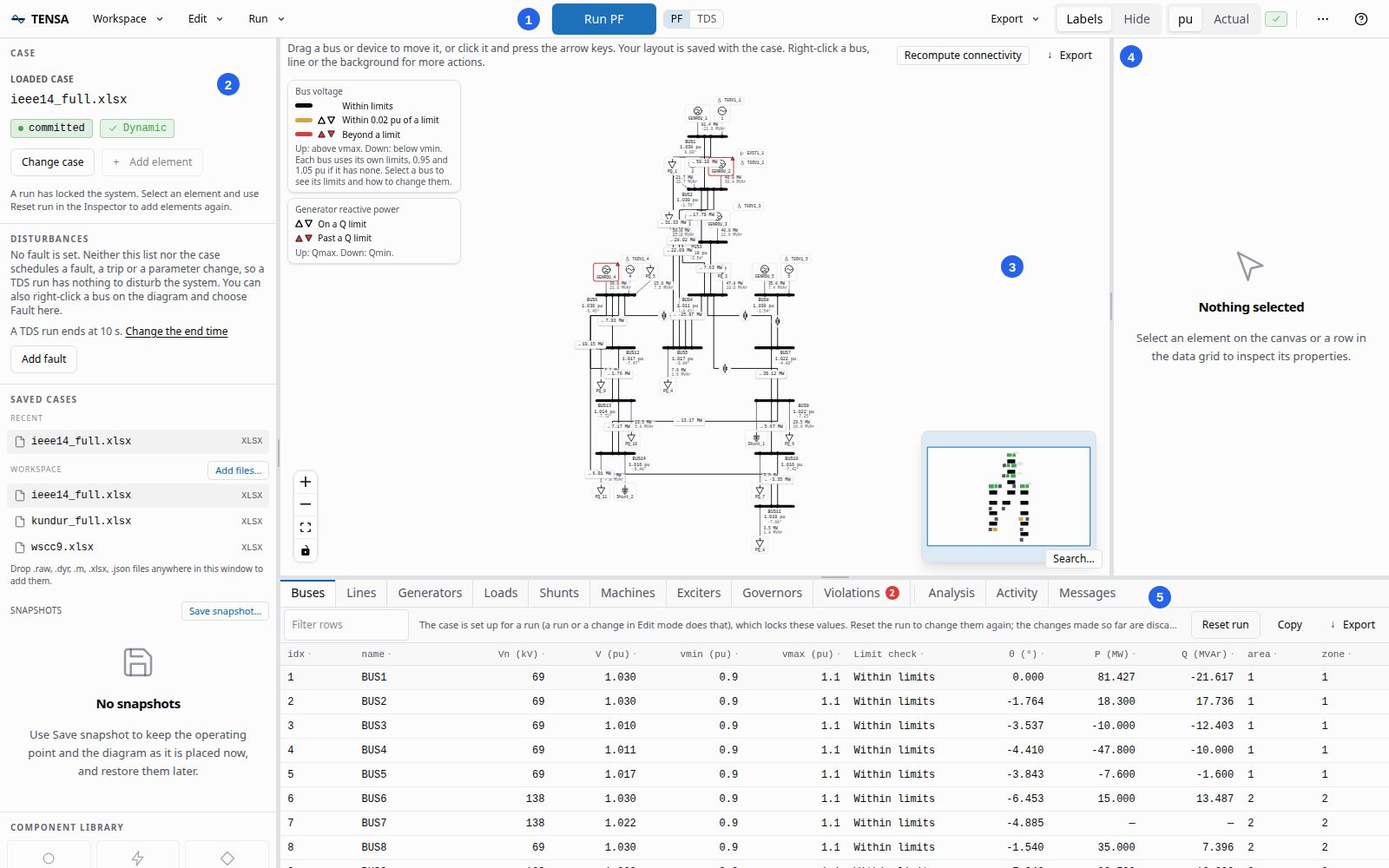
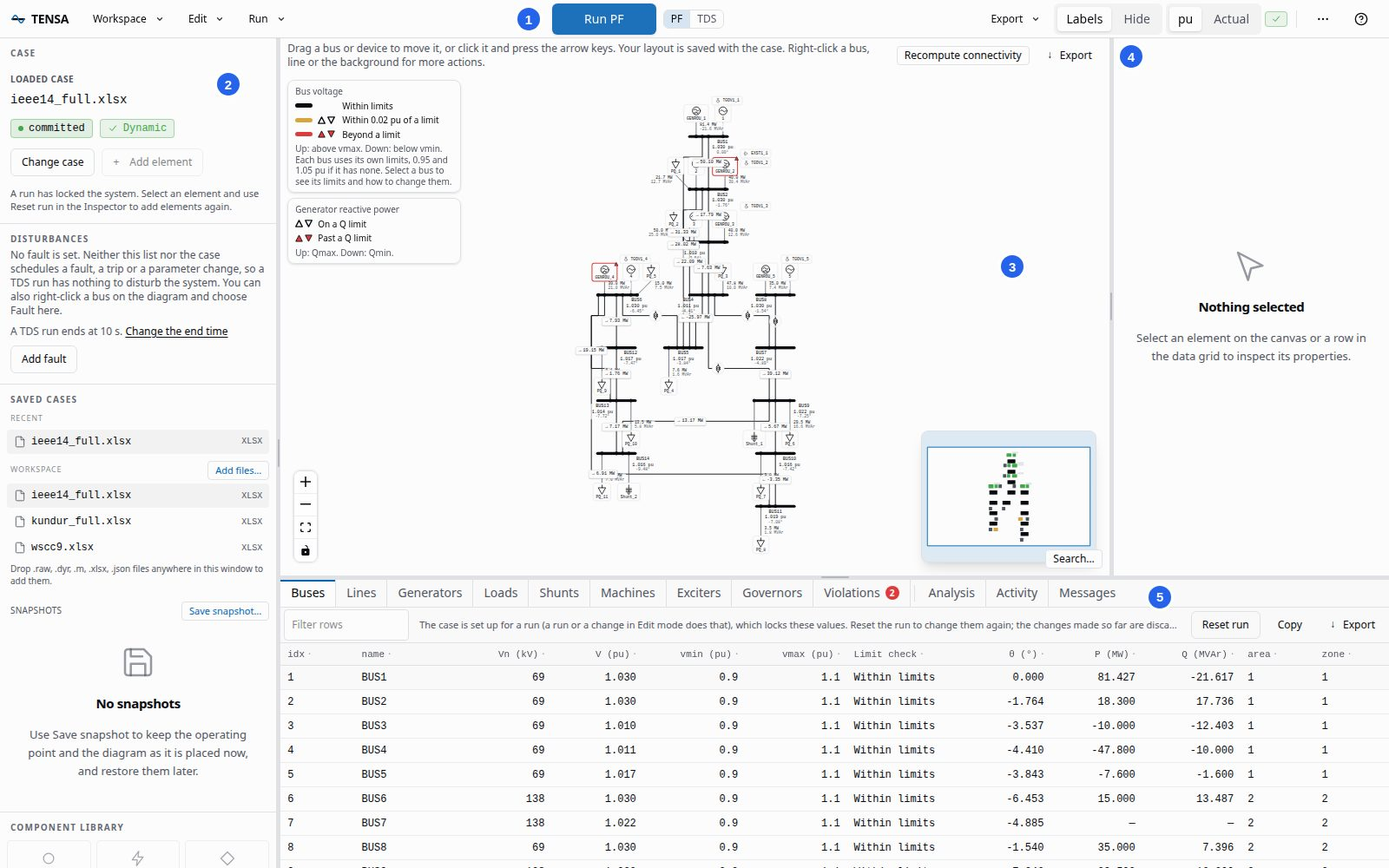
docs: say how the taps of a bar share it and how a connector goes round other symbols
The changelog, the UI tour and AGENTS.md said that the two faces of a bar
do not compete for taps and that the branches of one port are spread a
spacing apart. They now give the rules as they are: a tap above the bar
and one below it share a dot or keep the spacing, a device over the bar
keeps its square drop, the branches of one port are parted in the order
that keeps them from crossing, a connector does not run through another
symbol, and the readout of a device stands clear of its connector and of
the label of its bus.

The overview screenshot of the UI tour is retaken with
web/scripts/docs-screenshots.mjs, since the diagram in it is drawn by
these rules.

Changed region(s): [[0.4062, 0.124, 0.5938, 0.62]]

diff --git a/CHANGELOG.md b/CHANGELOG.md
@@ -79,9 +79,9 @@ All notable changes to TENSA are documented here. The format follows [Keep a Cha
 - `tensa desktop` opens the app in a window of its own instead of a browser tab. It starts the server on a free loopback port, shows the UI in a native window, and stops the server, the sessions and their workers when the window is closed. The window is pywebview's, from the new optional `desktop` extra (`pip install "tensa[desktop]"`; on Linux it also needs a GUI toolkit, which `pip install "tensa[desktop]" "pywebview[qt]"` adds, and the command says so when no window can be opened). It takes `--workspace`, the session, sweep and logging options of `tensa serve`, and `--width`, `--height` and `--devtools`; it has no `--bind` or `--port`, so the server is only ever on loopback. It calls `multiprocessing.freeze_support()` first, as a bundled executable needs. There is no installer or signed application yet: the server README outlines a PyInstaller build as future work.
 - `tensa desktop` checks, before it makes the workspace or starts the server, that a window can open, and when one cannot it prints one message and exits with status 1, having created nothing. The message says what is missing, gives the command that installs it, and ends with the way that needs none of it: `tensa serve --open` shows the same UI in a browser. Without pywebview the command is `pip install "tensa[desktop]"`, with `"pywebview[qt]"` added on Linux, where pywebview brings no GUI toolkit; it names the `desktop` extra only when the installed tensa has one (an older install has none, and pip only warns about an extra it does not know), and pywebview itself otherwise. `--help` gives the same two commands, in double quotes, which `cmd.exe` needs. On Linux the command stops when the session has no display (over SSH, say, where it points to `tensa serve`), when neither Qt nor GTK can be imported, and when the toolkit is installed and does not start. It finds the last out by starting the toolkit in a short-lived child process, because Qt does not raise when a system library is missing: it aborts the program with status 134 and a line about its `xcb` platform plugin, after the server had started. The usual cause is `libxcb-cursor0` on X11, and the message then gives the package for Debian and Ubuntu, Fedora and Arch; for anything else it quotes what the toolkit said. With two toolkits installed the window uses the one that starts, asked for by name so that pywebview does not try the other first. The server README lists what each system needs besides pip.
 - A saved system keeps the placement of everything on its diagram. The layout file beside a case (`<case>.layout.json`) held the position of each bus, generator, load and shunt, and only after something had been dragged. It now holds the whole diagram as it is drawn, whatever placed it: the layout shipped for the case, the automatic one, or your own drags. The lines are part of it: the automatic layout routes each one through fixed points, those points are saved, and a diagram saved from the automatic layout reopens with the same lines and not only the same buses. The schema is version 2 and also has a place for a controller placed on its own (`controller_coordinates`), for whether a generating unit is drawn expanded (`units`), the length and orientation of a busbar (`busbars`), the route of a branch and the bus faces it uses (`branches`), a label that was moved (`label_offsets`), the faces a device's connector attaches on (`connections`) and the display settings of a figure (`figure`). The diagram draws from the positions, the placed controllers and the routes, and carries the other sections through every write unchanged, minus what described an element the case no longer has. A version 1 file still opens: the server and the UI both upgrade it, and `GET /workspace/layout` always answers with version 2.
-- Every connector of the single-line diagram attaches at a definite place. A generator, load or shunt had one fixed handle (a generator's at its foot, a load's at its head, a shunt's at its right side), and its connector, a dashed line, ran from there to a point beside the bus wherever the device was put, so a device moved to the side of its bus was connected from its far side. A line or transformer the automatic layout had routed stopped where that layout's box for the bus ends, 34 units under the bar for one arriving from below. Now each device has a port at the middle of each of its four faces, and the connector leaves by the one that points at the bus. It lands on a tap of the bus's bar: the foot of the perpendicular from the device when that falls on the bar, the tip of the bar otherwise, and the bar's end itself for a device that sits level with it. Every tap is marked with a dot on the bar. The taps of one face of a bar keep 14 units between them, and a bar that has more taps than it has room for grows about its middle until they fit; a face above the bar and one below it do not compete, so a generator over a load may share a tap. The connector is a solid line with the stroke of a branch. All of it is worked out again on every move of a drag, so the face, the tap and the dot follow the pointer, and a bus that is dragged takes its branches with it at once.
-- A line or transformer lands on the bars as well. It is drawn at right angles from a tap to a tap: straight down between two bars that stand over each other, stepping across half way when they do not, and end to end between two buses that stand in a row. A branch the automatic layout routed, or a saved layout holds a route for, keeps its bends, and its two ends are brought onto the bars. Where a branch could run straight down from one bar to the next but for its two taps being out of line (the automatic layout runs every branch of one side of a bus through one point, and they are then spread a spacing apart), the tap that is free to move is brought in line with the other, so the branch stays straight and does not step sideways on its way. A second branch does not leave the end of a bar another one already has: it goes by the faces, or bridges over the two bars when they are exactly level. Where a branch steps across at the height of a third bar that stands between its two buses, the run across keeps clear of that bar, which it would otherwise seem to be part of.
-- Device connectors can turn at a right angle. The right-click menu of the diagram's background has Device connectors with Straight and Right angle, and the command palette has both. With Right angle a connector whose device does not stand square over its tap runs sideways out of the device and then square onto the bar. A device that stands over its tap is connected by a straight line either way. The choice is kept with the layout (the `connector_style` figure setting, `straight` or `elbow`), so it is saved beside the case and goes with a save under a new name, a snapshot and a bundle, and Reset to auto-layout leaves it alone.
+- Every connector of the single-line diagram attaches at a definite place. A generator, load or shunt had one fixed handle (a generator's at its foot, a load's at its head, a shunt's at its right side), and its connector, a dashed line, ran from there to a point beside the bus wherever the device was put, so a device moved to the side of its bus was connected from its far side. A line or transformer the automatic layout had routed stopped where that layout's box for the bus ends, 34 units under the bar for one arriving from below. Now each device has a port at the middle of each of its four faces, and the connector leaves by the one that points at the bus. It lands on a tap of the bus's bar: the foot of the perpendicular from the device when that falls on the bar, the tip of the bar otherwise, and the bar's end itself for a device that sits level with it. A device whose box still stands over a tip of the bar drops square as well, onto a bar that reaches out under its middle. Every tap is marked with a dot on the bar. The taps of a bar keep 14 units between them, on one face and across the two: a tap above the bar and one below it are either in one place, where they share a dot (a generator over a load, a line that comes down onto the bar and one that leaves under it), or 14 units apart, so no two dots run into each other. Where two connections ask for places closer than that, one gives way: the end of a line moves aside for a device that stands over the bar, which keeps its square drop, and a device for the end of a line that runs straight on to the next bar. A bar that has more taps than it has room for grows about its middle until they fit, and a bar grows at a tip to hold a tap that was moved past it. A connector does not run through another device or a controller badge where there is a way round: it then leaves by the face that looks at the bar. The connector is a solid line with the stroke of a branch. All of it is worked out again on every move of a drag, so the face, the tap and the dot follow the pointer, and a bus that is dragged takes its branches with it at once.
+- A line or transformer lands on the bars as well. It is drawn at right angles from a tap to a tap: straight down between two bars that stand over each other, stepping across half way when they do not, and end to end between two buses that stand in a row. A branch the automatic layout routed, or a saved layout holds a route for, keeps its bends, and its two ends are brought onto the bars. The automatic layout runs every branch of one side of a bus through one point. On the bar they are parted a spacing apart, in the order that keeps them from crossing: the ones that turn left on the left, the ones that turn right on the right, and between them the one that runs straight on to the next bar, which keeps the place the layout gave it at both ends. Where a branch could still run straight down from one bar to the next but for its two taps being out of line, the tap that is free to move is brought in line with the other, so the branch stays straight and does not step sideways on its way. A second branch does not leave the end of a bar another one already has: it goes by the faces, or bridges over the two bars when they are exactly level. Where a branch steps across at the height of a third bar that stands between its two buses, the run across keeps clear of that bar, which it would otherwise seem to be part of.
+- Device connectors can turn at a right angle. The right-click menu of the diagram's background has Device connectors with Straight and Right angle, and the command palette has both. With Right angle a connector whose device does not stand square over its tap runs sideways out of the device and then square onto the bar. Where another device stands in the way of that run, as in a row of devices that is longer than their bar, it goes down from the device to the level of the bar and along into its tip. A device that stands over its tap is connected by a straight line either way. The choice is kept with the layout (the `connector_style` figure setting, `straight` or `elbow`), so it is saved beside the case and goes with a save under a new name, a snapshot and a bundle, and Reset to auto-layout leaves it alone.
 - A bar can be given a length. `busbars.<bus>.length` in the layout was stored and not read; the diagram now draws the bar that long, and longer when its taps need it.
 - A position in the layout says what it belongs to. Entries are keyed by ANDES idx, and an idx does not always keep its meaning: a PSS/E `.raw` file holds none, so a system saved as one comes back with its devices and lines numbered afresh, and an element that is deleted can give its idx to the next one added. Each device position now records the bus the device hangs off (`bus`) and each route the two buses it runs between (`bus1`, `bus2`). An entry is used only for an element on those buses, so nothing is drawn where another element used to be, and an entry whose idx no longer fits is matched to the element that is on its buses now. A system saved as `.raw` therefore reopens with its generators, loads and lines where they were placed. The layout written beside a `.raw` copy leaves out what has nothing to be matched by. That is a `.raw` file Save system as wrote; Save parameter edits as case copies the case's own files, which read back numbered as the open case is, so the copy of a `.raw` case keeps the whole layout.
 - The layout goes where the system goes, on every way of saving it. Save and Save system as write the diagram as drawn beside the file they write. A snapshot keeps it (`layout` on `POST /sessions/{id}/snapshot`), and restoring the snapshot writes it back beside the case and returns it, so the diagram is placed as it was when the snapshot was saved. When that changes what is on screen the UI says so and offers Keep my layout, which brings back the arrangement the diagram had before the restore and leaves the restored operating point alone. A reproducibility bundle carries it as `layout.json` (`layout` on `POST /sessions/{id}/bundle/export`, and the export dialog lists it), and importing the bundle writes it beside the imported case (`layout_restored` in the answer). A `layout.json` that is not a valid layout, or holds one over the layout's size cap, is left out with a warning and the import goes ahead; when a conflict is resolved by keeping the workspace's own case file, its layout is kept with it. Resolved the other way by a bundle that brings no layout, the layout beside the replaced file is removed, with a warning that says so: it was made for the system that file held. A request that sends no `layout`, as a script does, gets the layout saved beside the case file, and `POST /sessions/{id}/save` and `POST /sessions/{id}/case/clone/save-as` copy that layout to the new name themselves.
@@ -90,10 +90,10 @@ All notable changes to TENSA are documented here. The format follows [Keep a Cha
 - The diagram says when it is locked. The padlock button of the diagram's controls turns dragging and selecting off, and the icon was the only sign of it, so a diagram locked by a stray click refused every drag with nothing to show why. The bar above the diagram now says that it is locked and which button unlocks it, the button is named for what the next press does (`Lock the diagram`, `Unlock the diagram`), and Move with arrow keys is greyed out with the reason while the lock is on.
 
 ### Changed
-- A device the layout does not place is put over a free part of its bar. It used to go a fixed offset from the corner of the bus node, which put a narrow one on the middle of the bar, where a single branch lands, and a wide one over the bar's left tip, and a generator and a load on the same side of a bus were stacked on one spot and pushed apart afterwards. Each now stands over the left or the right third of its bar (by the row the bus is in, as before), 8 units clear of a branch that lands on that side and of the device beside it, so its connector drops square onto the bar, and past the tip of the bar only when the bar is full. A shunt hangs under the bar like a load; it used to sit below and to the left of it. A position the layout holds, or a drag made, is kept as it is.
+- A device the layout does not place is put over a free part of its bar. It used to go a fixed offset from the corner of the bus node, which put a narrow one on the middle of the bar, where a single branch lands, and a wide one over the bar's left tip, and a generator and a load on the same side of a bus were stacked on one spot and pushed apart afterwards. Each now stands over the left or the right third of its bar (by the row the bus is in, as before), 8 units clear of a branch that lands on that side and of the device beside it, so its connector drops square onto the bar, and past the tip of the bar only when the bar is full. Where the other face of the bar has connections too, it stands in line with one of them or 14 units clear of them all. A shunt hangs under the bar like a load; it used to sit below and to the left of it. A position the layout holds, or a drag made, is kept as it is.
 - The automatic layout gives each bus a box as wide as its bar. The box was 60 wide for a bar of 92, so two buses of one layer could be placed with their bars touching, and a route could run through the end of a bar. A branch between two buses of different layers now leaves by the faces of the bars and not by their ends, which the layout chose whenever the buses were further apart across than down. A case with no saved layout and none shipped with the app is therefore drawn a little wider than before; a saved layout is drawn as it was saved.
 - The label of a bus moves along under its bar to stay clear of a connector that comes up through the middle, since lines now reach the bar.
-- The power and reactive power of a generator or load are shown beside its connector when the connector leaves by the face they hang off, and no longer on top of it.
+- The power and reactive power of a generator or load are shown beside its connector when the connector leaves by the face they hang off, and no longer on top of it: on the side the connector does not go off to when it is drawn at an angle. A device that hangs close under its bus has them below it, since the label of the bus is in between.
 - The first screen loads less. The Inspector, the Add element panel, the Activity and Messages tabs of the drawer, the Save system dialog and the disturbance dialog are fetched when they are first opened, like the diagram and the tables before them. The file every visit downloads first went from 578 kB to 471 kB (174 kB to 146 kB compressed).
 - The end time of a time-domain run is easier to find. It is set in the TDS tab of Analysis, and nothing pointed there from where a run is set up. The Disturbances list of the sidebar now says when the run ends ("A TDS run ends at 10 s.") with a link that opens that tab, the empty plot has an Open TDS settings button, the tabs of Analysis say on hover what each holds, and the field is labelled end time and says that a disturbance set for a later time is never reached.
 - `POST /sessions/{id}/undo-last-edit` took back the last element added and nothing else. It now takes back the last edit of any kind, so after a parameter change it undoes that change and not the add before it. It answers 409 once the system is set up, as its documentation said and as every other edit does (it used to rebuild a system that had been run), and still works on a system whose setup failed, which is the way out of an edit that made it fail. In the app, "Undo last edit" is now Undo and carries Ctrl/Cmd+Z, and "Undo parameter edit" and "Redo parameter edit" are no longer commands of their own: after a run the one Undo and the one Redo act on the controller parameters.
@@ -297,7 +297,7 @@ All notable changes to TENSA are documented here. The format follows [Keep a Cha
 - `core/session.py` (2,300 lines) and `api/schemas.py` (2,600 lines) are now packages. `core/session/` puts the session manager together from mixins, one module each for the live sessions and their requests to a worker (`registry`), the job surface (`jobs`), streaming runs (`runs`) and sweeps (`sweeps`), over the shared state in `base`, with the errors it raises in `errors` and the run and sweep buffers in `buffers`. `api/schemas/` has one module per domain (`errors`, `jobs`, `messages`, `sessions`, `topology`, `cases`, `elements`, `pflow`, `disturbances`, `clone`, `tds`, `metrics`, `comtrade`, `workspace`, `version`). `tensa.core.session` and `tensa.api.schemas` still export every name the single files defined, so no caller changed and the OpenAPI document is the same; tests pin both surfaces. The code moved as it was. A test that patches a module name now patches the module that uses it (`tensa.core.session.registry`, `tensa.core.session.jobs`, `tensa.core.session.sweeps`).
 - A test fails when a comment or a page names one of the single files that became packages (`schemas.py`, `wrapper.py`, `session.py`, `queries.ts`). Nine such mentions were left, in comments and in `server/ANDES_VERSIONS.md`, and now name the module they mean.
 - A size check for new large files. The repository already holds two files that are bigger than they should be, the README's demo video (3.3 MiB) and GIF (1.4 MiB), and a file committed stays in every clone because the history is not rewritten. A new `large-files` workflow runs `scripts/check_large_files.py` on every pull request and push to `main` or `improve/**` and fails a change that adds a file over 1 MiB or makes one bigger. It compares with the commit the change started from, so a large file the change leaves alone, moves or shrinks passes, and the two existing files stay as they are. A path in `.github/large-files-allowed.txt` is exempt, which puts the decision in front of the reviewer. CONTRIBUTING.md has a section on media (screenshots, recordings, exceptions), and `server/tests/unit/test_large_files.py` runs the check against small git repositories.
-- Where the connectors of the diagram attach has one home: `web/src/components/sld/connections.ts` works out the taps, the bars and the routes from where the nodes are, with no React in it, and `sides.ts` beside it says which side of its buses a branch leaves by. The edge and node components draw what it returns. A Playwright spec, `web/tests/e2e/sld-connections.spec.ts`, reads the boxes and paths a real browser drew and checks that every connector leaves the middle of a face and lands on a tap, through a drag and a change of style.
+- Where the connectors of the diagram attach has one home: `web/src/components/sld/connections.ts` works out the taps, the bars and the routes from where the nodes are, with no React in it, and `sides.ts` beside it says which side of its buses a branch leaves by. The edge and node components draw what it returns. A Playwright spec, `web/tests/e2e/sld-connections.spec.ts`, reads the boxes and paths a real browser drew on WSCC 9, Kundur and IEEE 14 and checks that every connector leaves the middle of a face and lands on a tap, that none runs through another symbol and that no two tap dots run into each other, through a drag and a change of style.
 - The diagram's layout has one home on each side: `server/src/tensa/core/layout.py` (the schema, its versions, and the file kept beside a case) and `web/src/components/sld/sidecar.ts` (the same schema, and `captureLayout`, which turns the diagram as drawn into the document every save sends). A Playwright spec, `web/tests/e2e/layout-persistence.spec.ts`, places a diagram with real pointer drags, saves it under a new name, snapshots it and restores it, and checks each time that it is drawn as it was placed.
 
 ## [0.4.0] — 2026-07-05

diff --git a/AGENTS.md b/AGENTS.md
@@ -74,7 +74,7 @@ The trust model lives in the top-level docstring of `server/src/tensa/__init__.p
 - `server/src/tensa/core/session/`: the `SessionManager`, put together in `__init__.py` from one mixin per concern over the shared state in `base.py` (`SessionManagerBase`, and `_Session`, the bookkeeping of one live session). `registry.py` spawns, closes and reaps sessions and sends a session's worker its requests (`invoke`, `invoke_streaming`); `jobs.py` is what the job registries show the routes, the live feed of job transitions, `cancel_session_job` and the liveness sweeper; `runs.py` keeps a streaming TDS run for a client that drops and attaches again, and `sweeps.py` does the same for a sensitivity sweep; `errors.py` has what the manager raises and `buffers.py` the run and sweep buffers. `tensa.core.session` re-exports every name the single-file module had, so `from tensa.core.session import ...` keeps working; a new concern is a mixin in its own module that `SessionManager` lists as a base, and a test that patches a name there (a tick, `SweepWorkerPool`, `attach_kill_on_close_job`) patches the module that uses it, such as `tensa.core.session.registry`
 - `server/src/tensa/security/` — workspace path validation, portable file-name validation (`names.py`: use it for any client-supplied name that becomes a file name; `user_name_problem` is the single rule behind snapshot and save-as names), Host/Origin ASGI middleware, and the ASGI middleware that adds the browser security headers to every HTTP response (`SECURITY_HEADERS`; wrapped outside the Host/Origin check so its 400s carry them)
 - `server/src/tensa/core/layout.py`: the layout of a case's diagram, the document kept beside the case as `<case>.layout.json`. It holds the schema (`SidecarLayout`, version 2: the positions of buses, devices and placed controllers, the expanded state of units, busbars, branch routes, label offsets, connection faces and figure settings), `upgrade_layout`, which every read and write goes through so that a version 1 file is answered and stored as version 2, and what the save paths call so that the placement goes where the system goes: `carry_layout_sidecar` after a save under a new name (the worker's `save_case` handler and `CloneManager.save_as`), `read_layout_sidecar` and `write_layout_sidecar` for a snapshot (the layout sits in the snapshot's JSON) and for a bundle (`layout.json`). Entries are keyed by idx, and an idx can come to name another element (a `.raw` file keeps none, so a system saved as one is numbered afresh when it is read back), so a device position carries its `bus` and a branch route its `bus1` and `bus2`: a reader uses an entry only for an element on those buses and matches a leftover entry to the element that is there now (`resolveDeviceCoords` and `branchPolylines` in `sidecar.ts`), and `for_renumbered_copy` (`layoutForRenumberedCopy` on the web side) is what the layout beside a `.raw` copy keeps. The other sections keyed by the idx of a device or a branch (unit state, label offsets, connection faces) have no reader yet, and each needs an anchor of this kind before it gets one. Two things keyed otherwise are read: the `length` of a bus's bar (`barLengthsOf`), and `connector_style` among the `figure` settings (`connectorStyleOf`, `straight` or `elbow`), which is a setting of the whole diagram and so needs no anchor. A layout is never a reason to fail a save, an export, an import or a restore: one that cannot be read or does not validate is logged or reported as a warning and left out. A layout has one size, the bytes of the form the server stores it in (`layout_json`: compact JSON with every field written out, which is what the file beside a case and a bundle's `layout.json` hold), and `MAX_LAYOUT_BYTES` is measured on that form at every way in: `PUT /workspace/layout` and the `layout` of a snapshot save or a bundle export answer 413 over it, and a file or a bundle entry that is read is held to it by the layout it holds (`check_layout_size`), not by its own length, which `MAX_LAYOUT_FILE_BYTES` only keeps readable. So what the server has taken it can write anywhere and read back; a new way in calls `check_layout_size`, and a new writer writes `layout_json`. The models are defined there, not in `api/schemas`, because the worker validates layouts too. On the web side `web/src/components/sld/sidecar.ts` mirrors the schema (`parseSidecar`, with the same upgrade), `captureLayout` turns the diagram as drawn into the document, the canvas keeps the result in the case store (`diagramLayout`), and `web/src/lib/diagramLayout.ts` is what every save sends. A new thing the diagram places means a field in both schemas, a reader in `buildGraph`, a line in `captureLayout`, and an entry in `web/tests/fixtures/layout-v2.json`, the one document the tests of both sides read (`server/tests/unit/test_layout_web_schema.py`, `sidecar.test.ts`) so that the two schemas and the two cuts for a renumbered copy cannot drift apart; `web/tests/unit/components/sld/SldCanvasLayoutRoundTrip.test.tsx` and `web/tests/e2e/layout-persistence.spec.ts` hold the rule that a saved diagram reopens as it was placed
-- `web/src/components/sld/connections.ts`: where every connector of the diagram attaches and how it runs. A bus is a horizontal bar, and `layoutConnections` works out, from the nodes and edges `buildGraph` made and where the nodes are now, the bar of each bus (its length and its taps) and the route of each device connector and branch. It is pure and cheap, and `SldCanvas` runs it on every change of the nodes, a move of a drag included, then hands the bars to the bus nodes (`data.bar`) and the routes to the edges (`data.route`); the edge components (`StubEdge`, `TopologyEdge`, `TransformerEdge`) only draw the points, and `BusNode` draws the bar and a dot per tap. The rules are in its docstring: a tap is the foot of the perpendicular when that falls on the bar and the tip otherwise, the taps of one face keep `TAP_SPACING` apart (`spreadTaps`) and the bar grows to hold them, a device has a port at the middle of each face (`DEVICE_PORT`) and leaves by the one that points at its tap, and a branch with a stored route keeps its bends while its ends are brought onto the bars (`data.bendPoints`, used only while the buses sit at `data.bendAnchors`). `sides.ts` holds the sides and which of them a branch leaves by (`assignBranchSides`: the ends of two bars that stand in a row, the faces otherwise, one branch to an end), which the auto-layout declares its ports from as well. `graph.ts` uses the same pass, run over the buses and branches alone, to put a device the layout does not place over a free part of its bar (`freeColumn`). The canvas needs the measured size of each device for the ports, which it takes from React Flow's `dimensions` changes and hands back as `measured`, so a node is measured once. A new kind of connection means a request in `layoutConnections`, and a rule that moves an end means a case in `web/tests/unit/components/sld/connections.test.ts` and in `web/tests/e2e/sld-connections.spec.ts`, which checks the rules on what a real browser drew
+- `web/src/components/sld/connections.ts`: where every connector of the diagram attaches and how it runs. A bus is a horizontal bar, and `layoutConnections` works out, from the nodes and edges `buildGraph` made and where the nodes are now, the bar of each bus (its length and its taps) and the route of each device connector and branch. It is pure and cheap, and `SldCanvas` runs it on every change of the nodes, a move of a drag included, then hands the bars to the bus nodes (`data.bar`) and the routes to the edges (`data.route`); the edge components (`StubEdge`, `TopologyEdge`, `TransformerEdge`) only draw the points, and `BusNode` draws the bar and a dot per tap. The rules are in its docstring: a tap is the foot of the perpendicular when that falls on the bar and the tip otherwise, the taps of one face keep `TAP_SPACING` apart (`spreadTaps`) and the bar grows to hold them, of two that ask for places too close the one that holds its place less firmly gives way (`TAP_HOLD`: the end of a line for a device that drops square, a device for a route that runs straight on), a tap of one face and one of the other share a place or keep the spacing too, a device has a port at the middle of each face (`DEVICE_PORT`) and leaves by the one that points at its tap, its connector keeps out of the other devices and the controller badges, and a branch with a stored route keeps its bends while its ends are brought onto the bars (`data.bendPoints`, used only while the buses sit at `data.bendAnchors`). `sides.ts` holds the sides and which of them a branch leaves by (`assignBranchSides`: the ends of two bars that stand in a row, the faces otherwise, one branch to an end), which the auto-layout declares its ports from as well. `graph.ts` uses the same pass, run over the buses and branches alone, to put a device the layout does not place over a free part of its bar, in line with what lands on the other face or a spacing clear of it (`freeColumn`). The canvas needs the measured size of each device for the ports, which it takes from React Flow's `dimensions` changes and hands back as `measured`, so a node is measured once. A new kind of connection means a request in `layoutConnections`, and a rule that moves an end means a case in `web/tests/unit/components/sld/connections.test.ts` and in `web/tests/e2e/sld-connections.spec.ts`, which checks the rules on what a real browser drew
 - `server/src/tensa/core/pflow_options.py`: the settings one power-flow request can change (tolerance, iteration limit, flat start, Q-limit enforcement), their range checks, and `pflow_options_applied`, which writes them to the live System for one run and puts back what it found. Q-limit enforcement goes through the PV and Slack limiters' own `enable` and flags, since ANDES copies `pv2pq` into the limiter at construction (contract 8 in `server/ANDES_VERSIONS.md`)
 - `server/src/tensa/core/cpf_options.py`: what one continuation power flow request can ask for and how it reaches ANDES's CPF. `direction_targets` turns the direction of the increase (`load`, `load-only`, `gen`, or `custom` with MW and MVAr per device) into the routine's targets. `cpf_run_applied` wraps one run: it sets `step`, `max_steps` and `stop_at` (`full` for the lower branch), reads every PV and Slack generator's reactive output at each point the routine keeps, and with limits enforced switches the limiters on, places each PV to PQ switch by bisection, and refuses the steps after a switch the path cannot get past so the routine calls it the nose. A generator held at a limit stays held, as ANDES's limiter has it, and the result says from which step a real exciter would have let go (`would_release_step`). Everything the run writes is put back, limiter flags included. Its docstring says why each of these is needed (contract 11 in `server/ANDES_VERSIONS.md`); `tests/unit/test_cpf_options.py` drives it with a scripted stand-in for the routine
 - `server/src/tensa/core/esd1.py`: what the element builder fills in, checks and says about an `ESD1` battery, the one storage model it takes. `prepare_add` gives a battery added without a rating the system base as its `Sn` and refuses the values a run cannot use (a zero `En`, `Tf` or `EtaD`, a `SOCinit` outside its window, a `pqflag` other than 0 or 1, trip points that do not rise or that leave the nominal frequency outside them, a `gen` that is no static generator on the battery's bus); `check_edit` does the same for a pre-setup edit and for a clone edit, only for what the edit changes. A battery rated off the system base is accepted and answered with a warning on `tensa.notice`, because its limits are per unit of `Sn` and its set-point and output per unit of the system base (contract 12 in `server/ANDES_VERSIONS.md`, which also covers what `add_element` does before it calls ANDES: matching a reference sent as text to the idx the case holds, and refusing an add that leaves a mandatory param out). The web form's help for the model is `web/src/components/elements/elementHelp.ts`, and `genLink.ts` beside it is what ties the `bus` of a device on a static generator (a machine, a battery) to its `gen`

diff --git a/docs/ui-tour.md b/docs/ui-tour.md
@@ -52,7 +52,7 @@ Below about 1800 px of window width, the search button, the theme switch and His
 
 The diagram is a traditional busbar one-line. Drag a bus, a generator, a load or a shunt to move it: where you leave it is saved in a layout file beside the case, so it is there when you open the case again. The file holds the whole diagram as it is drawn, the lines included, and every way of saving the system takes it along, so a case saved under a new name, a restored snapshot and an imported bundle all open with the picture they were saved with. Right-click a bus, a line or the background for more actions, such as putting a fault on a bus or, on the background, saving a snapshot.
 
-A generator, a load or a shunt is joined to its bus by a connector that leaves from the middle of the face that points at the bus and lands on the bar, at a dot. Under or over the bar the connector drops square onto it. Past the tip of the bar it runs to the tip, as a diagonal. If you prefer right angles, right-click the background and pick **Right angle** under **Device connectors** (**Straight** puts the diagonals back); the choice is saved with the layout. Lines and transformers land on the bars too, each at a dot of its own, and a bar grows when it has more connections than it has room for.
+A generator, a load or a shunt is joined to its bus by a connector that leaves from the middle of the face that points at the bus and lands on the bar, at a dot. Under or over the bar the connector drops square onto it. Past the tip of the bar it runs to the tip, as a diagonal. If you prefer right angles, right-click the background and pick **Right angle** under **Device connectors** (**Straight** puts the diagonals back); the choice is saved with the layout. Either way a connector goes round the other symbols and not through them. Lines and transformers land on the bars too. A connection above the bar and one below it may share a dot; otherwise the dots stand clear of each other, and a bar grows when it has more connections than it has room for.
 
 To place something without dragging, click it and press the arrow keys, with Shift for bigger steps. The right-click menu of a bus, a generator, a load or a shunt has **Move with arrow keys**, which selects it for the keys. The padlock button at the bottom left locks the diagram: while it is on, nothing can be dragged or selected, and the bar above the diagram says so.
 
